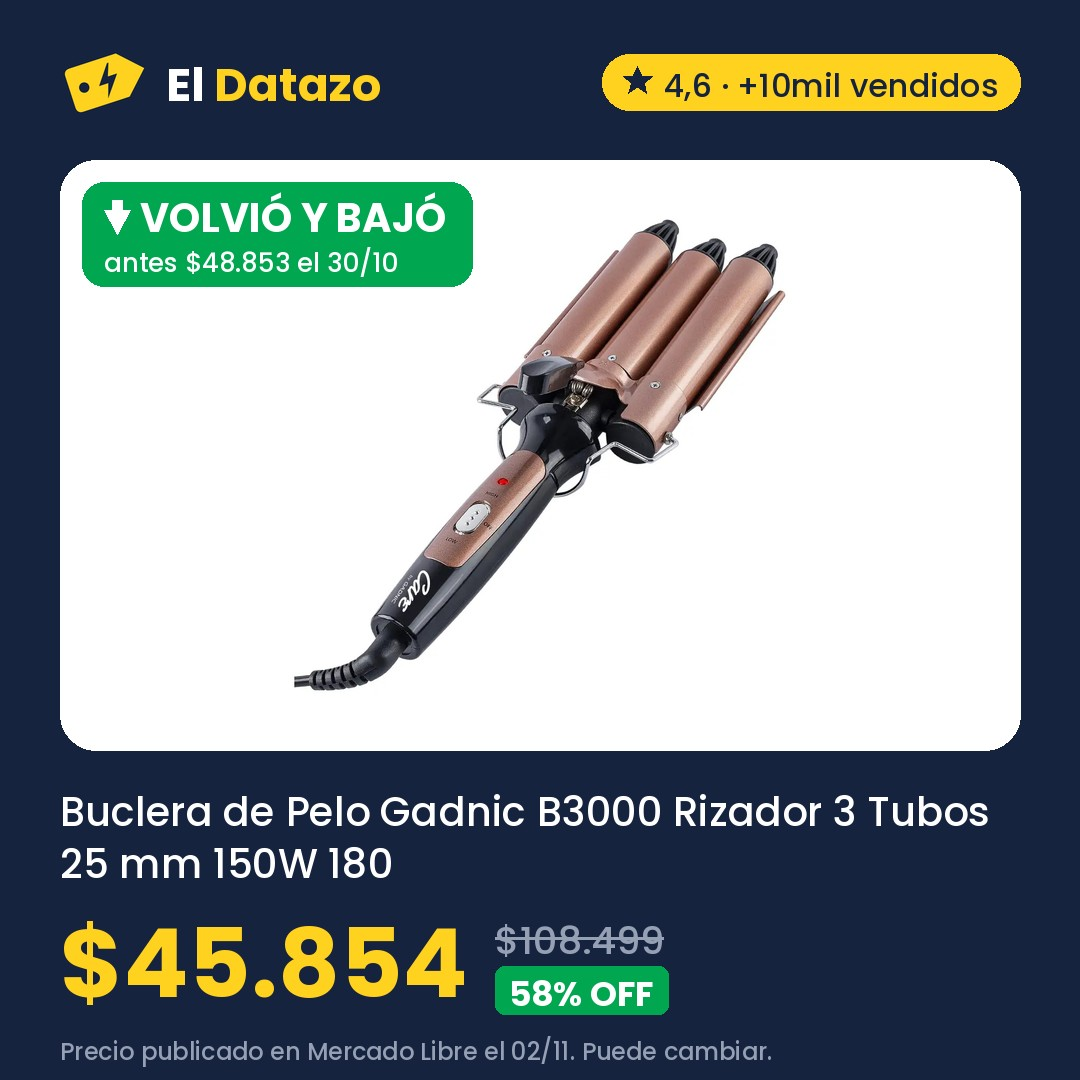
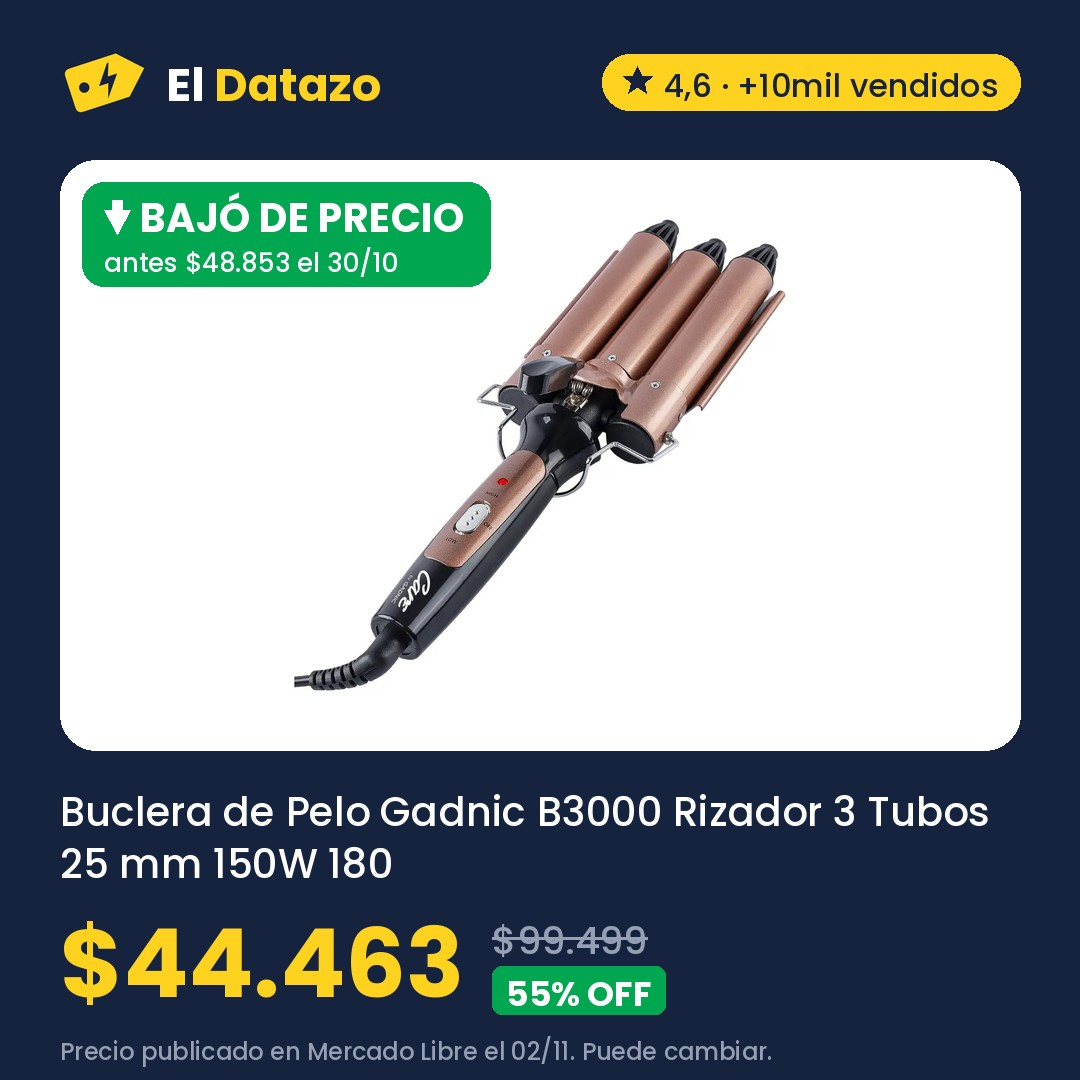
Ofertas 2026-11-02 23:33

Changed region(s): [[0.1528, 0.8556, 0.4278, 0.9472], [0.1222, 0.1528, 0.4583, 0.275], [0.4583, 0.8556, 0.6111, 0.9472]]

diff --git a/index.html b/index.html
@@ -285,32 +285,36 @@ padding:3px 9px;border-radius:999px}
         tu precio.</p>
       </section>
       
-  <section class="hero" id="MLA19719361" aria-labelledby="hero-titulo">
-    <div class="hero-foto"><img src="img/MLA19719361.jpg" alt="Yelmo As-3240 Aspiradora Para Auto Recargable Usb Color Gris" width="1080" height="1080"></div>
+  <section class="hero" id="MLA47200126" aria-labelledby="hero-titulo">
+    <div class="hero-foto"><img src="img/MLA47200126.jpg" alt="Extractor De Leche Eléctrico Mawe By Gadnic RH-289 150 ml 9 Niveles Pantalla LED Batería Recargable 1200mAh" width="1080" height="1080"></div>
     <div class="etiqueta">
       <p class="etiqueta-cabeza">El datazo de hoy <span class="sello">Quedan 7 días</span></p>
-      <h2 id="hero-titulo">Yelmo As-3240 Aspiradora Para Auto Recargable Usb Color Gris</h2>
-      <p class="hero-precio">$36.567</p>
-      <p class="hero-antes"><s>$109.999</s> <span class="off">67% OFF</span></p>
-      <p class="bajo pastilla"><b>⬇ Volvió</b> · Había terminado y volvió al mismo precio</p>
-      <p class="nota">Precio de hoy a las 16:33 en Mercado Libre. Puede cambiar.</p>
-      <a class="boton oscuro" href="https://meli.la/1BA5g6k" rel="sponsored noopener" target="_blank"
-         data-oferta="MLA19719361">Ver oferta en Mercado Libre</a>
-      <a class="compartir" href="https://wa.me/?text=Mir%C3%A1%20este%20datazo%3A%20Yelmo%20As-3240%20Aspiradora%20Para%20Auto%20Recargable%20Usb%20Color%20Gris%20a%20%2436.567%20https%3A//eldatazo.com.ar/%23MLA19719361" target="_blank" rel="noopener" data-estilo="texto"><svg viewBox="0 0 24 24" width="16" height="16" aria-hidden="true"><path d="M4 20l1.3-4A8 8 0 1 1 8 18.7L4 20z" fill="none" stroke="currentColor" stroke-width="2" stroke-linejoin="round"/></svg> Compartir por WhatsApp</a>
+      <h2 id="hero-titulo">Extractor De Leche Eléctrico Mawe By Gadnic RH-289 150 ml 9 Niveles Pantalla LED Batería Recargable 1200mAh</h2>
+      <p class="hero-precio">$43.482</p>
+      <p class="hero-antes"><s>$138.899</s> <span class="off">69% OFF</span></p>
+      <p class="bajo pastilla"><b>⬇ Volvió y bajó</b> · Antes $46.899 el 02/11 · 7% menos</p>
+      <p class="nota">Precio de hoy a las 20:33 en Mercado Libre. Puede cambiar.</p>
+      <a class="boton oscuro" href="https://meli.la/314C11i" rel="sponsored noopener" target="_blank"
+         data-oferta="MLA47200126">Ver oferta en Mercado Libre</a>
+      <a class="compartir" href="https://wa.me/?text=Mir%C3%A1%20este%20datazo%3A%20Extractor%20De%20Leche%20El%C3%A9ctrico%20Mawe%20By%20Gadnic%20RH-289%20150%20ml%209%20Niveles%20Pantalla%20LED%20Bater%C3%ADa%20Recargable%201200mAh%20a%20%2443.482%20https%3A//eldatazo.com.ar/%23MLA47200126" target="_blank" rel="noopener" data-estilo="texto"><svg viewBox="0 0 24 24" width="16" height="16" aria-hidden="true"><path d="M4 20l1.3-4A8 8 0 1 1 8 18.7L4 20z" fill="none" stroke="currentColor" stroke-width="2" stroke-linejoin="round"/></svg> Compartir por WhatsApp</a>
     </div>
   </section>
       
   <section class="franja-bajo" aria-labelledby="bajo-titulo">
-    <h2 id="bajo-titulo">⬇ Bajaron de precio <span>22</span></h2>
+    <h2 id="bajo-titulo">⬇ Bajaron de precio <span>23</span></h2>
     <ul class="franja-lista">
         <li><a href="#MLA73800060"><img src="img/MLA73800060.jpg" alt="" loading="lazy">
           <span><b>Libro: Primero Yo, Después El Resto: 120 Sesiones De Verdad</b><span class="ahora">$17.000</span><s>$33.000</s> <span class="bajo">⬇ Bajó</span></span></a></li>
         <li><a href="#MLA24729106"><img src="img/MLA24729106.jpg" alt="" loading="lazy">
           <span><b>Crique Hidraulico Carrito Gato Para Autos 2 Tn Mejor Calidad</b><span class="ahora">$47.890</span><s>$54.533</s> <span class="bajo">⬇ Bajó</span></span></a></li>
+        <li><a href="#MLA22130330"><img src="img/MLA22130330.jpg" alt="" loading="lazy">
+          <span><b>Buclera de Pelo Gadnic B3000 Rizador 3 Tubos 25 mm 150W 180 210 C</b><span class="ahora">$44.463</span><s>$48.853</s> <span class="bajo">⬇ Volvió y bajó</span></span></a></li>
+        <li><a href="#MLA47200126"><img src="img/MLA47200126.jpg" alt="" loading="lazy">
+          <span><b>Extractor De Leche Eléctrico Mawe By Gadnic RH-289 150 ml 9 Niveles Pantalla LED Batería Recargable 1200mAh</b><span class="ahora">$43.482</span><s>$46.899</s> <span class="bajo">⬇ Volvió y bajó</span></span></a></li>
         <li><a href="#MLA23456165"><img src="img/MLA23456165.jpg" alt="" loading="lazy">
           <span><b>Silfab AL91 Almohadilla Eléctrica Espalda Large 41 X 28 Cm</b><span class="ahora">$46.932</span><s>$50.465</s> <span class="bajo">⬇ Volvió y bajó</span></span></a></li>
-        <li><a href="#MLA22130330"><img src="img/MLA22130330.jpg" alt="" loading="lazy">
-          <span><b>Buclera de Pelo Gadnic B3000 Rizador 3 Tubos 25 mm 150W 180 210 C</b><span class="ahora">$45.854</span><s>$48.853</s> <span class="bajo">⬇ Volvió y bajó</span></span></a></li>
+        <li><a href="#MLA22764635"><img src="img/MLA22764635.jpg" alt="" loading="lazy">
+          <span><b>Colchón Inflable Doble Klimber + Inflador + 2 Almohadas</b><span class="ahora">$45.319</span><s>$47.990</s> <span class="bajo">⬇ Bajó</span></span></a></li>
         <li><a href="#MLA37255352"><img src="img/MLA37255352.jpg" alt="" loading="lazy">
           <span><b>Afeitadora Eléctrica Hombre Shaver VGR V-325 Recargable Inalámbrica Negro y azul</b><span class="ahora">$37.790</span><s>$39.790</s> <span class="bajo">⬇ Volvió y bajó</span></span></a></li>
         <li><a href="#MLA63186370"><img src="img/MLA63186370.jpg" alt="" loading="lazy">
@@ -321,12 +325,8 @@ padding:3px 9px;border-radius:999px}
           <span><b>Colchon Antiescaras Inflable Ortopedico Con Bomba Femmto</b><span class="ahora">$60.102</span><s>$61.749</s> <span class="bajo">⬇ Volvió y bajó</span></span></a></li>
         <li><a href="#MLA26522167"><img src="img/MLA26522167.jpg" alt="" loading="lazy">
           <span><b>Equipo de Alta Frecuencia Gadnic LF60 Antienvejecimiento Antiacné Reafirmante Facial 4 Electrodos</b><span class="ahora">$42.441</span><s>$43.149</s> <span class="bajo">⬇ Volvió y bajó</span></span></a></li>
-        <li><a href="#MLA47200126"><img src="img/MLA47200126.jpg" alt="" loading="lazy">
-          <span><b>Extractor De Leche Eléctrico Mawe By Gadnic RH-289 150 ml 9 Niveles Pantalla LED Batería Recargable 1200mAh</b><span class="ahora">$46.899</span><s>$47.849</s> <span class="bajo">⬇ Volvió y bajó</span></span></a></li>
         <li><a href="#MLA16048275"><img src="img/MLA16048275.jpg" alt="" loading="lazy">
           <span><b>Eucerin Sun Oil Control Protector solar facial Toque Seco FPS 50 x 50 ml</b><span class="ahora">$35.318</span> <span class="bajo">⬇ Volvió</span></span></a></li>
-        <li><a href="#MLA19719361"><img src="img/MLA19719361.jpg" alt="" loading="lazy">
-          <span><b>Yelmo As-3240 Aspiradora Para Auto Recargable Usb Color Gris</b><span class="ahora">$36.567</span> <span class="bajo">⬇ Volvió</span></span></a></li>
     </ul>
   </section>
       
@@ -346,7 +346,7 @@ padding:3px 9px;border-radius:999px}
             <option value="precio">Más baratas</option>
           </select></label>
       </div>
-      <div class="chips" role="group" aria-label="Rubro"><button type="button" data-filtro="" aria-pressed="true">Todo</button><button type="button" data-filtro="MLA1246" aria-pressed="false">Belleza y Cuidado Personal <span>4</span></button><button type="button" data-filtro="MLA1512" aria-pressed="false">Agro <span>3</span></button><button type="button" data-filtro="MLA409431" aria-pressed="false">Salud y Equipamiento Médico <span>3</span></button><button type="button" data-filtro="MLA1384" aria-pressed="false">Bebés <span>1</span></button><button type="button" data-filtro="MLA1144" aria-pressed="false">Consolas y Videojuegos <span>1</span></button><button type="button" data-filtro="MLA1500" aria-pressed="false">Construcción <span>1</span></button><button type="button" data-filtro="MLA1039" aria-pressed="false">Cámaras y Accesorios <span>1</span></button><button type="button" data-filtro="MLA1276" aria-pressed="false">Deportes y Fitness <span>1</span></button><button type="button" data-filtro="MLA1499" aria-pressed="false">Industrias y Oficinas <span>1</span></button><button type="button" data-filtro="MLA3025" aria-pressed="false">Libros, Revistas y Comics <span>1</span></button><button type="button" data-filtro="MLA1430" aria-pressed="false">Ropa y Accesorios <span>1</span></button></div>
+      <div class="chips" role="group" aria-label="Rubro"><button type="button" data-filtro="" aria-pressed="true">Todo</button><button type="button" data-filtro="MLA1246" aria-pressed="false">Belleza y Cuidado Personal <span>4</span></button><button type="button" data-filtro="MLA1512" aria-pressed="false">Agro <span>3</span></button><button type="button" data-filtro="MLA409431" aria-pressed="false">Salud y Equipamiento Médico <span>3</span></button><button type="button" data-filtro="MLA1499" aria-pressed="false">Industrias y Oficinas <span>2</span></button><button type="button" data-filtro="MLA1144" aria-pressed="false">Consolas y Videojuegos <span>1</span></button><button type="button" data-filtro="MLA1500" aria-pressed="false">Construcción <span>1</span></button><button type="button" data-filtro="MLA1039" aria-pressed="false">Cámaras y Accesorios <span>1</span></button><button type="button" data-filtro="MLA1276" aria-pressed="false">Deportes y Fitness <span>1</span></button><button type="button" data-filtro="MLA3025" aria-pressed="false">Libros, Revistas y Comics <span>1</span></button><button type="button" data-filtro="MLA1430" aria-pressed="false">Ropa y Accesorios <span>1</span></button></div>
       <p class="contador" aria-live="polite"><span data-cuenta>18</span> ofertas</p>
     </div>
     <div class="grilla activas">
@@ -359,7 +359,7 @@ padding:3px 9px;border-radius:999px}
           <h3>Eucerin Sun Oil Control Protector solar facial Toque Seco FPS 50 x 50 ml</h3>
           <p class="precios "><span class="precio">$35.318</span><s class="antes">$75.301</s><span class="off">53% OFF</span></p>
           <p class="bajo">Había terminado y volvió al mismo precio</p>
-          <p class="nota">Precio de hoy a las 16:33 en Mercado Libre. Puede cambiar.</p>
+          <p class="nota">Precio de hoy a las 20:33 en Mercado Libre. Puede cambiar.</p>
           <div class="acciones">
             <a class="boton" href="https://meli.la/2Zpeewk" rel="sponsored noopener" target="_blank"
                data-oferta="MLA16048275">Ver oferta</a>
@@ -368,20 +368,38 @@ padding:3px 9px;border-radius:999px}
           </div>
         </div>
       </article>
-      <article class="tarjeta destacada" id="MLA22130330" data-rubro="MLA1246" data-off="58" data-pub="2026-11-02" data-quedan="7" data-precio="45854" data-bajo="7" data-texto="buclera de pelo gadnic b3000 rizador 3 tubos 25 mm 150w 180 210 c">
+      <article class="tarjeta destacada" id="MLA19719361" data-rubro="MLA1499" data-off="67" data-pub="2026-11-02" data-quedan="7" data-precio="36567" data-bajo="1" data-texto="yelmo as-3240 aspiradora para auto recargable usb color gris">
+        <div class="tarjeta-foto">
+          <img src="img/MLA19719361.jpg" alt="Yelmo As-3240 Aspiradora Para Auto Recargable Usb Color Gris" loading="lazy" width="1080" height="1080">
+        </div>
+        <div class="cuerpo">
+          <div class="fila"><span class="sello baja">⬇ Volvió</span><span class="sello">Quedan 7 días</span><span class="rubro">Industrias y Oficinas</span></div>
+          <h3>Yelmo As-3240 Aspiradora Para Auto Recargable Usb Color Gris</h3>
+          <p class="precios "><span class="precio">$36.567</span><s class="antes">$109.999</s><span class="off">67% OFF</span></p>
+          <p class="bajo">Había terminado y volvió al mismo precio</p>
+          <p class="nota">Precio de hoy a las 20:33 en Mercado Libre. Puede cambiar.</p>
+          <div class="acciones">
+            <a class="boton" href="https://meli.la/1BA5g6k" rel="sponsored noopener" target="_blank"
+               data-oferta="MLA19719361">Ver oferta</a>
+            <a class="compartir" href="https://wa.me/?text=Mir%C3%A1%20este%20datazo%3A%20Yelmo%20As-3240%20Aspiradora%20Para%20Auto%20Recargable%20Usb%20Color%20Gris%20a%20%2436.567%20https%3A//eldatazo.com.ar/%23MLA19719361" target="_blank" rel="noopener"
+               aria-label="Compartir por WhatsApp" title="Compartir por WhatsApp"><svg viewBox="0 0 24 24" width="16" height="16" aria-hidden="true"><path d="M4 20l1.3-4A8 8 0 1 1 8 18.7L4 20z" fill="none" stroke="currentColor" stroke-width="2" stroke-linejoin="round"/></svg></a>
+          </div>
+        </div>
+      </article>
+      <article class="tarjeta destacada" id="MLA22130330" data-rubro="MLA1246" data-off="55" data-pub="2026-11-02" data-quedan="7" data-precio="44462" data-bajo="10" data-texto="buclera de pelo gadnic b3000 rizador 3 tubos 25 mm 150w 180 210 c">
         <div class="tarjeta-foto">
           <img src="img/MLA22130330.jpg" alt="Buclera de Pelo Gadnic B3000 Rizador 3 Tubos 25 mm 150W 180 210 C" loading="lazy" width="1080" height="1080">
         </div>
         <div class="cuerpo">
           <div class="fila"><span class="sello baja">⬇ Volvió y bajó</span><span class="sello">Quedan 7 días</span><span class="rubro">Belleza y Cuidado Personal</span></div>
           <h3>Buclera de Pelo Gadnic B3000 Rizador 3 Tubos 25 mm 150W 180 210 C</h3>
-          <p class="precios "><span class="precio">$45.854</span><s class="antes">$108.499</s><span class="off">58% OFF</span></p>
-          <p class="bajo">Antes $48.853 el 30/10 · 6% menos</p>
-          <p class="nota">Precio de hoy a las 16:33 en Mercado Libre. Puede cambiar.</p>
+          <p class="precios "><span class="precio">$44.463</span><s class="antes">$99.499</s><span class="off">55% OFF</span></p>
+          <p class="bajo">Antes $48.853 el 30/10 · 9% menos</p>
+          <p class="nota">Precio de hoy a las 20:33 en Mercado Libre. Puede cambiar.</p>
           <div class="acciones">
             <a class="boton" href="https://meli.la/1HyqnAD" rel="sponsored noopener" target="_blank"
                data-oferta="MLA22130330">Ver oferta</a>
-            <a class="compartir" href="https://wa.me/?text=Mir%C3%A1%20este%20datazo%3A%20Buclera%20de%20Pelo%20Gadnic%20B3000%20Rizador%203%20Tubos%2025%20mm%20150W%20180%20210%20C%20a%20%2445.854%20https%3A//eldatazo.com.ar/%23MLA22130330" target="_blank" rel="noopener"
+            <a class="compartir" href="https://wa.me/?text=Mir%C3%A1%20este%20datazo%3A%20Buclera%20de%20Pelo%20Gadnic%20B3000%20Rizador%203%20Tubos%2025%20mm%20150W%20180%20210%20C%20a%20%2444.463%20https%3A//eldatazo.com.ar/%23MLA22130330" target="_blank" rel="noopener"
                aria-label="Compartir por WhatsApp" title="Compartir por WhatsApp"><svg viewBox="0 0 24 24" width="16" height="16" aria-hidden="true"><path d="M4 20l1.3-4A8 8 0 1 1 8 18.7L4 20z" fill="none" stroke="currentColor" stroke-width="2" stroke-linejoin="round"/></svg></a>
           </div>
         </div>
@@ -395,7 +413,7 @@ padding:3px 9px;border-radius:999px}
           <h3>Crique Hidraulico Carrito Gato Para Autos 2 Tn Mejor Calidad</h3>
           <p class="precios "><span class="precio">$47.890</span><s class="antes">$58.014</s><span class="off">17% OFF</span></p>
           <p class="bajo">Antes $54.533 el 01/11 · 12% menos</p>
-          <p class="nota">Precio de hoy a las 16:33 en Mercado Libre. Puede cambiar.</p>
+          <p class="nota">Precio de hoy a las 20:33 en Mercado Libre. Puede cambiar.</p>
           <div class="acciones">
             <a class="boton" href="https://meli.la/2ZwvMNb" rel="sponsored noopener" target="_blank"
                data-oferta="MLA24729106">Ver oferta</a>
@@ -413,7 +431,7 @@ padding:3px 9px;border-radius:999px}
           <h3>Equipo de Alta Frecuencia Gadnic LF60 Antienvejecimiento Antiacné Reafirmante Facial 4 Electrodos</h3>
           <p class="precios "><span class="precio">$42.441</span><s class="antes">$90.999</s><span class="off">53% OFF</span></p>
           <p class="bajo">Antes $43.149 el 28/10 · 2% menos</p>
-          <p class="nota">Precio de hoy a las 16:33 en Mercado Libre. Puede cambiar.</p>
+          <p class="nota">Precio de hoy a las 20:33 en Mercado Libre. Puede cambiar.</p>
           <div class="acciones">
             <a class="boton" href="https://meli.la/1guS1ep" rel="sponsored noopener" target="_blank"
                data-oferta="MLA26522167">Ver oferta</a>
@@ -431,7 +449,7 @@ padding:3px 9px;border-radius:999px}
           <h3>BOTIQUÍN DE BAÑO TRENTO AMUBE 30x50 CM | Espejo y Repisa | Melamina Blanca</h3>
           <p class="precios "><span class="precio">$43.999</span><s class="antes">$45.394</s><span class="off">3% OFF</span></p>
           <p class="bajo">Había terminado y volvió al mismo precio</p>
-          <p class="nota">Precio de hoy a las 16:33 en Mercado Libre. Puede cambiar.</p>
+          <p class="nota">Precio de hoy a las 20:33 en Mercado Libre. Puede cambiar.</p>
           <div class="acciones">
             <a class="boton" href="https://meli.la/2PKMfSp" rel="sponsored noopener" target="_blank"
                data-oferta="MLA28878536">Ver oferta</a>
@@ -449,7 +467,7 @@ padding:3px 9px;border-radius:999px}
           <h3>Afeitadora Eléctrica Hombre Shaver VGR V-325 Recargable Inalámbrica Negro y azul</h3>
           <p class="precios "><span class="precio">$37.790</span><s class="antes">$79.580</s><span class="off">53% OFF</span></p>
           <p class="bajo">Antes $39.790 el 02/11 · 5% menos</p>
-          <p class="nota">Precio de hoy a las 16:33 en Mercado Libre. Puede cambiar.</p>
+          <p class="nota">Precio de hoy a las 20:33 en Mercado Libre. Puede cambiar.</p>
           <div class="acciones">
             <a class="boton" href="https://meli.la/1KpJLVC" rel="sponsored noopener" target="_blank"
                data-oferta="MLA37255352">Ver oferta</a>
@@ -467,29 +485,11 @@ padding:3px 9px;border-radius:999px}
           <h3>Mochila Viaje Carry On Avion Porta Notebook Waggs Negro Lisa</h3>
           <p class="precios "><span class="precio">$45.087</span><s class="antes">$96.758</s><span class="off">53% OFF</span></p>
           <p class="bajo">Antes $46.799 el 28/10 · 4% menos</p>
-          <p class="nota">Precio de hoy a las 16:33 en Mercado Libre. Puede cambiar.</p>
+          <p class="nota">Precio de hoy a las 20:33 en Mercado Libre. Puede cambiar.</p>
           <div class="acciones">
             <a class="boton" href="https://meli.la/1Y9GX65" rel="sponsored noopener" target="_blank"
                data-oferta="MLA43803009">Ver oferta</a>
             <a class="compartir" href="https://wa.me/?text=Mir%C3%A1%20este%20datazo%3A%20Mochila%20Viaje%20Carry%20On%20Avion%20Porta%20Notebook%20Waggs%20Negro%20Lisa%20a%20%2445.087%20https%3A//eldatazo.com.ar/%23MLA43803009" target="_blank" rel="noopener"
-               aria-label="Compartir por WhatsApp" title="Compartir por WhatsApp"><svg viewBox="0 0 24 24" width="16" height="16" aria-hidden="true"><path d="M4 20l1.3-4A8 8 0 1 1 8 18.7L4 20z" fill="none" stroke="currentColor" stroke-width="2" stroke-linejoin="round"/></svg></a>
-          </div>
-        </div>
-      </article>
-      <article class="tarjeta destacada" id="MLA47200126" data-rubro="MLA1384" data-off="38" data-pub="2026-11-02" data-quedan="7" data-precio="46899" data-bajo="3" data-texto="extractor de leche eléctrico mawe by gadnic rh-289 150 ml 9 niveles pantalla led batería recargable 1200mah">
-        <div class="tarjeta-foto">
-          <img src="img/MLA47200126.jpg" alt="Extractor De Leche Eléctrico Mawe By Gadnic RH-289 150 ml 9 Niveles Pantalla LED Batería Recargable 1200mAh" loading="lazy" width="1080" height="1080">
-        </div>
-        <div class="cuerpo">
-          <div class="fila"><span class="sello baja">⬇ Volvió y bajó</span><span class="sello">Quedan 7 días</span><span class="rubro">Bebés</span></div>
-          <h3>Extractor De Leche Eléctrico Mawe By Gadnic RH-289 150 ml 9 Niveles Pantalla LED Batería Recargable 1200mAh</h3>
-          <p class="precios "><span class="precio">$46.899</span><s class="antes">$76.249</s><span class="off">38% OFF</span></p>
-          <p class="bajo">Antes $47.849 el 26/10 · 2% menos</p>
-          <p class="nota">Precio de hoy a las 16:33 en Mercado Libre. Puede cambiar.</p>
-          <div class="acciones">
-            <a class="boton" href="https://meli.la/314C11i" rel="sponsored noopener" target="_blank"
-               data-oferta="MLA47200126">Ver oferta</a>
-            <a class="compartir" href="https://wa.me/?text=Mir%C3%A1%20este%20datazo%3A%20Extractor%20De%20Leche%20El%C3%A9ctrico%20Mawe%20By%20Gadnic%20RH-289%20150%20ml%209%20Niveles%20Pantalla%20LED%20Bater%C3%ADa%20Recargable%201200mAh%20a%20%2446.899%20https%3A//eldatazo.com.ar/%23MLA47200126" target="_blank" rel="noopener"
                aria-label="Compartir por WhatsApp" title="Compartir por WhatsApp"><svg viewBox="0 0 24 24" width="16" height="16" aria-hidden="true"><path d="M4 20l1.3-4A8 8 0 1 1 8 18.7L4 20z" fill="none" stroke="currentColor" stroke-width="2" stroke-linejoin="round"/></svg></a>
           </div>
         </div>
@@ -503,7 +503,7 @@ padding:3px 9px;border-radius:999px}
           <h3>Libro: Primero Yo, Después El Resto: 120 Sesiones De Verdad</h3>
           <p class="precios "><span class="precio">$17.000</span></p>
           <p class="bajo">Antes $33.000 el 01/11 · 48% menos</p>
-          <p class="nota">Precio de hoy a las 16:33 en Mercado Libre. Puede cambiar.</p>
+          <p class="nota">Precio de hoy a las 20:33 en Mercado Libre. Puede cambiar.</p>
           <div class="acciones">
             <a class="boton" href="https://meli.la/2DQxPNs" rel="sponsored noopener" target="_blank"
                data-oferta="MLA73800060">Ver oferta</a>
@@ -521,7 +521,7 @@ padding:3px 9px;border-radius:999px}
           <h3>God Of War Ragnarok Ps4 Juego Físico Nuevo Sony Original</h3>
           <p class="precios "><span class="precio">$75.999</span></p>
           
-          <p class="nota">Precio del 01/11 en Mercado Libre, revisado hoy a las 16:33. Puede cambiar.</p>
+          <p class="nota">Precio del 01/11 en Mercado Libre, revisado hoy a las 20:33. Puede cambiar.</p>
           <div class="acciones">
             <a class="boton" href="https://meli.la/217QPCu" rel="sponsored noopener" target="_blank"
                data-oferta="MLA19472094">Ver oferta</a>
@@ -539,7 +539,7 @@ padding:3px 9px;border-radius:999px}
           <h3>Silfab AL91 Almohadilla Eléctrica Espalda Large 41 X 28 Cm</h3>
           <p class="precios "><span class="precio">$46.932</span><s class="antes">$52.990</s><span class="off">11% OFF</span></p>
           <p class="bajo">Antes $50.465 el 24/10 · 7% menos</p>
-          <p class="nota">Precio de hoy a las 16:33 en Mercado Libre. Puede cambiar.</p>
+          <p class="nota">Precio de hoy a las 20:33 en Mercado Libre. Puede cambiar.</p>
           <div class="acciones">
             <a class="boton" href="https://meli.la/2cQdCWW" rel="sponsored noopener" target="_blank"
                data-oferta="MLA23456165">Ver oferta</a>
@@ -557,7 +557,7 @@ padding:3px 9px;border-radius:999px}
           <h3>Colchon Antiescaras Inflable Ortopedico Con Bomba Femmto</h3>
           <p class="precios "><span class="precio">$60.102</span><s class="antes">$119.999</s><span class="off">50% OFF</span></p>
           <p class="bajo">Antes $61.749 el 26/10 · 3% menos</p>
-          <p class="nota">Precio del 01/11 en Mercado Libre, revisado hoy a las 16:33. Puede cambiar.</p>
+          <p class="nota">Precio del 01/11 en Mercado Libre, revisado hoy a las 20:33. Puede cambiar.</p>
           <div class="acciones">
             <a class="boton" href="https://meli.la/1yfHiNk" rel="sponsored noopener" target="_blank"
                data-oferta="MLA24496709">Ver oferta</a>
@@ -575,7 +575,7 @@ padding:3px 9px;border-radius:999px}
           <h3>Bomba Desagote Agua Sucia Vasser De 400ps 400 Watts</h3>
           <p class="precios "><span class="precio">$69.138</span><s class="antes">$85.441</s><span class="off">19% OFF</span></p>
           <p class="bajo">Había terminado y volvió al mismo precio</p>
-          <p class="nota">Precio del 01/11 en Mercado Libre, revisado hoy a las 16:33. Puede cambiar.</p>
+          <p class="nota">Precio del 01/11 en Mercado Libre, revisado hoy a las 20:33. Puede cambiar.</p>
           <div class="acciones">
             <a class="boton" href="https://meli.la/19GEcXU" rel="sponsored noopener" target="_blank"
                data-oferta="MLA26204453">Ver oferta</a>
@@ -593,7 +593,7 @@ padding:3px 9px;border-radius:999px}
           <h3>Taladro Percutor Total Mandril 13mm 710w Tg107136 Color Turquesa Frecuencia 50 Hz x 60 Hz</h3>
           <p class="precios "><span class="precio">$70.220</span></p>
           
-          <p class="nota">Precio del 01/11 en Mercado Libre, revisado hoy a las 16:33. Puede cambiar.</p>
+          <p class="nota">Precio del 01/11 en Mercado Libre, revisado hoy a las 20:33. Puede cambiar.</p>
           <div class="acciones">
             <a class="boton" href="https://meli.la/2dUz2s5" rel="sponsored noopener" target="_blank"
                data-oferta="MLA29532448">Ver oferta</a>
@@ -611,7 +611,7 @@ padding:3px 9px;border-radius:999px}
           <h3>Cámara Digital Kodak Charmera RK0601 Retro Compacta para Llavero y Video</h3>
           <p class="precios "><span class="precio">$54.454</span><s class="antes">$80.000</s><span class="off">32% OFF</span></p>
           <p class="bajo">Antes $57.573 el 01/11 · 5% menos</p>
-          <p class="nota">Precio de hoy a las 16:33 en Mercado Libre. Puede cambiar.</p>
+          <p class="nota">Precio de hoy a las 20:33 en Mercado Libre. Puede cambiar.</p>
           <div class="acciones">
             <a class="boton" href="https://meli.la/2QAJKif" rel="sponsored noopener" target="_blank"
                data-oferta="MLA63186370">Ver oferta</a>
@@ -629,7 +629,7 @@ padding:3px 9px;border-radius:999px}
           <h3>Tensiometro Digital Brazo Bluetooth Presion Arterial Aparato Para Tomar Presion Batería Recargable Usb Medidor Automatico Femmto KF-DT65S</h3>
           <p class="precios "><span class="precio">$28.999</span><s class="antes">$49.999</s><span class="off">42% OFF</span></p>
           <p class="bajo">Había terminado y volvió al mismo precio</p>
-          <p class="nota">Precio de hoy a las 16:33 en Mercado Libre. Puede cambiar.</p>
+          <p class="nota">Precio de hoy a las 20:33 en Mercado Libre. Puede cambiar.</p>
           <div class="acciones">
             <a class="boton" href="https://meli.la/2V53bXq" rel="sponsored noopener" target="_blank"
                data-oferta="MLA76118504">Ver oferta</a>
@@ -638,20 +638,20 @@ padding:3px 9px;border-radius:999px}
           </div>
         </div>
       </article>
-      <article class="tarjeta" id="MLA22764635" data-rubro="MLA1276" data-off="31" data-pub="2026-10-26" data-quedan="7" data-precio="47990" data-bajo="0" data-texto="colchón inflable doble klimber + inflador + 2 almohadas">
+      <article class="tarjeta destacada" id="MLA22764635" data-rubro="MLA1276" data-off="43" data-pub="2026-10-26" data-quedan="7" data-precio="45319" data-bajo="7" data-texto="colchón inflable doble klimber + inflador + 2 almohadas">
         <div class="tarjeta-foto">
           <img src="img/MLA22764635.jpg" alt="Colchón Inflable Doble Klimber + Inflador + 2 Almohadas" loading="lazy" width="1080" height="1080">
         </div>
         <div class="cuerpo">
-          <div class="fila"><span class="sello">Quedan 7 días</span><span class="rubro">Deportes y Fitness</span></div>
+          <div class="fila"><span class="sello baja">⬇ Bajó</span><span class="sello">Quedan 7 días</span><span class="rubro">Deportes y Fitness</span></div>
           <h3>Colchón Inflable Doble Klimber + Inflador + 2 Almohadas</h3>
-          <p class="precios "><span class="precio">$47.990</span><s class="antes">$69.999</s><span class="off">31% OFF</span></p>
-          
-          <p class="nota">Precio del 01/11 en Mercado Libre, revisado hoy a las 16:33. Puede cambiar.</p>
+          <p class="precios "><span class="precio">$45.319</span><s class="antes">$79.381</s><span class="off">43% OFF</span></p>
+          <p class="bajo">Antes $47.990 el 01/11 · 6% menos</p>
+          <p class="nota">Precio de hoy a las 20:33 en Mercado Libre. Puede cambiar.</p>
           <div class="acciones">
             <a class="boton" href="https://meli.la/19eMhmv" rel="sponsored noopener" target="_blank"
                data-oferta="MLA22764635">Ver oferta</a>
-            <a class="compartir" href="https://wa.me/?text=Mir%C3%A1%20este%20datazo%3A%20Colch%C3%B3n%20Inflable%20Doble%20Klimber%20%2B%20Inflador%20%2B%202%20Almohadas%20a%20%2447.990%20https%3A//eldatazo.com.ar/%23MLA22764635" target="_blank" rel="noopener"
+            <a class="compartir" href="https://wa.me/?text=Mir%C3%A1%20este%20datazo%3A%20Colch%C3%B3n%20Inflable%20Doble%20Klimber%20%2B%20Inflador%20%2B%202%20Almohadas%20a%20%2445.319%20https%3A//eldatazo.com.ar/%23MLA22764635" target="_blank" rel="noopener"
                aria-label="Compartir por WhatsApp" title="Compartir por WhatsApp"><svg viewBox="0 0 24 24" width="16" height="16" aria-hidden="true"><path d="M4 20l1.3-4A8 8 0 1 1 8 18.7L4 20z" fill="none" stroke="currentColor" stroke-width="2" stroke-linejoin="round"/></svg></a>
           </div>
         </div>
@@ -665,7 +665,7 @@ padding:3px 9px;border-radius:999px}
           <h3>Rotuladora Portátil Niimbot Etiquetadora Manual Impresora Color Blanco D110</h3>
           <p class="precios "><span class="precio">$40.596</span><s class="antes">$58.900</s><span class="off">31% OFF</span></p>
           
-          <p class="nota">Precio de hoy a las 16:33 en Mercado Libre. Puede cambiar.</p>
+          <p class="nota">Precio de hoy a las 20:33 en Mercado Libre. Puede cambiar.</p>
           <div class="acciones">
             <a class="boton" href="https://meli.la/1czSFp6" rel="sponsored noopener" target="_blank"
                data-oferta="MLA45260672">Ver oferta</a>
@@ -1219,7 +1219,7 @@ padding:3px 9px;border-radius:999px}
       <nav class="redes" aria-label="Redes de El Datazo"><a class="red" href="https://www.instagram.com/eldatazo.arg/" target="_blank" rel="noopener"><svg viewBox="0 0 24 24" width="18" height="18" aria-hidden="true"><rect x="3" y="3" width="18" height="18" rx="5" fill="none" stroke="currentColor" stroke-width="2"/><circle cx="12" cy="12" r="4" fill="none" stroke="currentColor" stroke-width="2"/><circle cx="17.5" cy="6.5" r="1.3" fill="currentColor"/></svg> Instagram</a><a class="red" href="https://www.facebook.com/profile.php?id=61595441168911" target="_blank" rel="noopener"><svg viewBox="0 0 24 24" width="18" height="18" aria-hidden="true"><path d="M14 8h3V4h-3a4 4 0 0 0-4 4v2H7v4h3v8h4v-8h3l1-4h-4V8z" fill="currentColor"/></svg> Facebook</a><a class="red" href="https://t.me/eldatazo_ofertas" target="_blank" rel="noopener"><svg viewBox="0 0 24 24" width="18" height="18" aria-hidden="true"><path d="M21 4 3 11l5 2 2 6 3-4 5 4 3-15zM9 13l9-6-7 8" fill="none" stroke="currentColor" stroke-width="1.8" stroke-linejoin="round"/></svg> Telegram</a></nav>
       <p>Los links son de afiliado de Mercado Libre: si comprás, El Datazo puede recibir una comisión, sin que cambie
       tu precio. Los precios son los publicados en Mercado Libre el día indicado y pueden cambiar.</p>
-      <p>Actualizado el 02/11/2026 16:34 (hora argentina) · <a href="privacidad/">Privacidad</a></p>
+      <p>Actualizado el 02/11/2026 20:33 (hora argentina) · <a href="privacidad/">Privacidad</a></p>
     </div>
   </footer>
   
